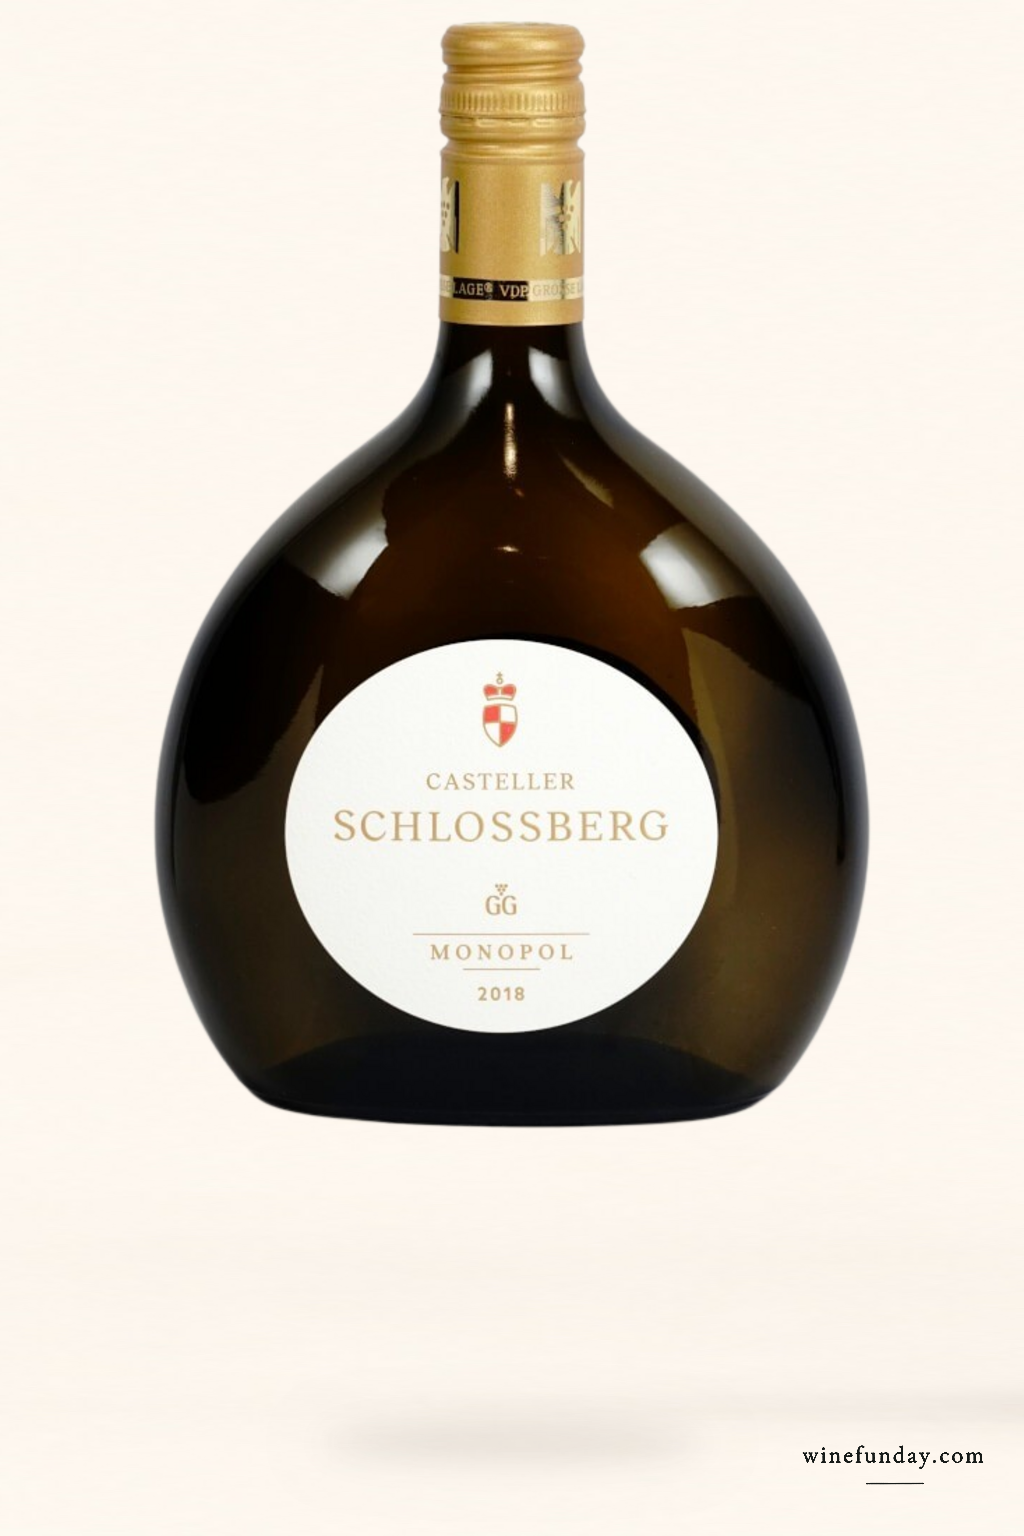
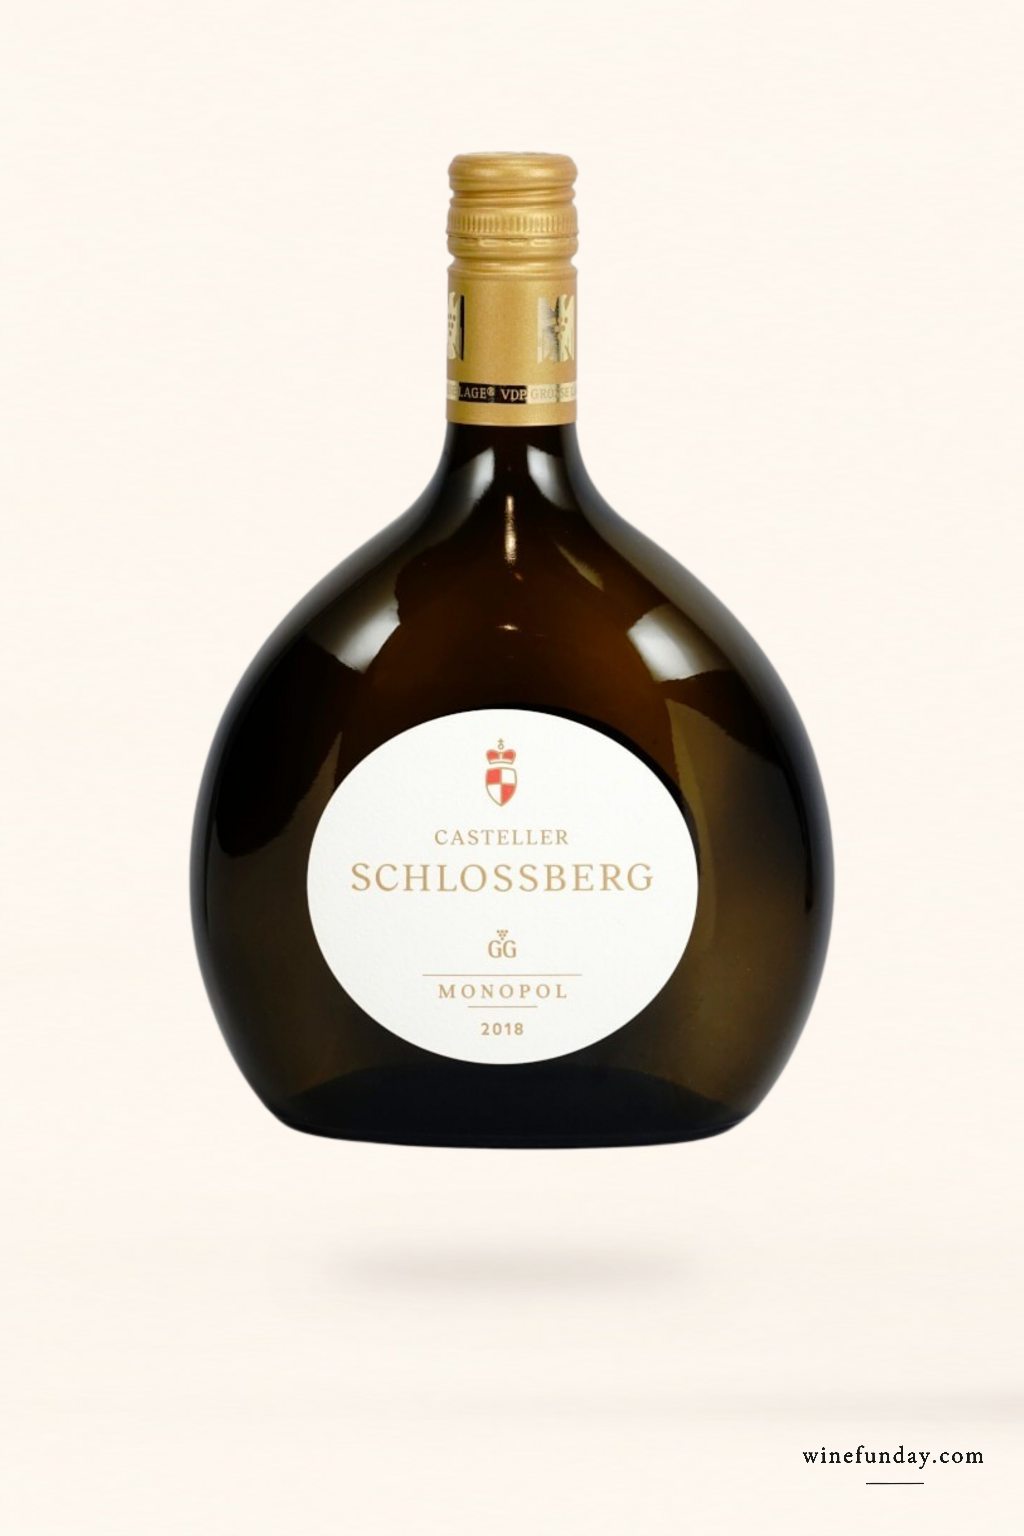
Replace four unclean German bottle images

Changed region(s): [[0.125, 0.0, 0.875, 0.75]]

diff --git a/wine-image-overrides.js b/wine-image-overrides.js
@@ -107,7 +107,7 @@ window.WINE_IMAGE_OVERRIDES = Object.freeze({
   "WD549-1-22": "Weinbilder/WD549-1-22.webp?v=master-20260919-6",
   "WD560-1-22": "Weinbilder/WD560-1-22.webp?v=master-20260919-7",
   "WD551-1-20": "Weinbilder/WD551-1-20.webp?v=master-20260919-23",
-  "WD550-1-18": "Weinbilder/WD550-1-18.webp?v=master-20260919-29",
+  "WD550-1-18": "Weinbilder/WD550-1-18.webp?v=master-20260920-clean-1",
   "WD563-1-21": "Weinbilder/WD563-1-21.webp?v=master-20260919-12",
   "WD565-1-22": "Weinbilder/WD565-1-22.webp?v=master-20260919-8",
   "RD4055-0-22": "Weinbilder/RD4055-0-22.webp",
@@ -133,12 +133,12 @@ window.WINE_IMAGE_OVERRIDES = Object.freeze({
   "WD517-1-20": "Weinbilder/WD517-1-20.webp?v=master-20260919-33",
   "WD518-1-22": "Weinbilder/WD518-1-22.webp?v=master-20260919-34",
   "WD536-1-19": "Weinbilder/WD536-1-19.webp?v=master-20260919-35",
-  "WD538-1-19": "Weinbilder/WD538-1-19.webp?v=master-20260919-36",
+  "WD538-1-19": "Weinbilder/WD538-1-19.webp?v=master-20260920-clean-1",
   "WD542-1-25": "Weinbilder/WD542-1-25.webp?v=master-20260919-37",
   "WD552-1-20": "Weinbilder/WD552-1-20.webp?v=master-20260919-38",
   "WD504-1-22": "Weinbilder/WD504-1-22.webp?v=master-20260919-39",
-  "WD505-1-18": "Weinbilder/WD505-1-18.webp?v=master-20260919-40",
-  "WD506-1-21": "Weinbilder/WD506-1-21.webp?v=master-20260919-41",
+  "WD505-1-18": "Weinbilder/WD505-1-18.webp?v=master-20260920-clean-1",
+  "WD506-1-21": "Weinbilder/WD506-1-21.webp?v=master-20260920-clean-1",
   "WD526-1-21": "Weinbilder/WD526-1-21.webp?v=master-20260919-42",
   "WD530-2-22": "Weinbilder/WD530-2-22.webp?v=master-20260919-43",
   "WD532-1-21": "Weinbilder/WD532-1-21.webp?v=master-20260919-44",
